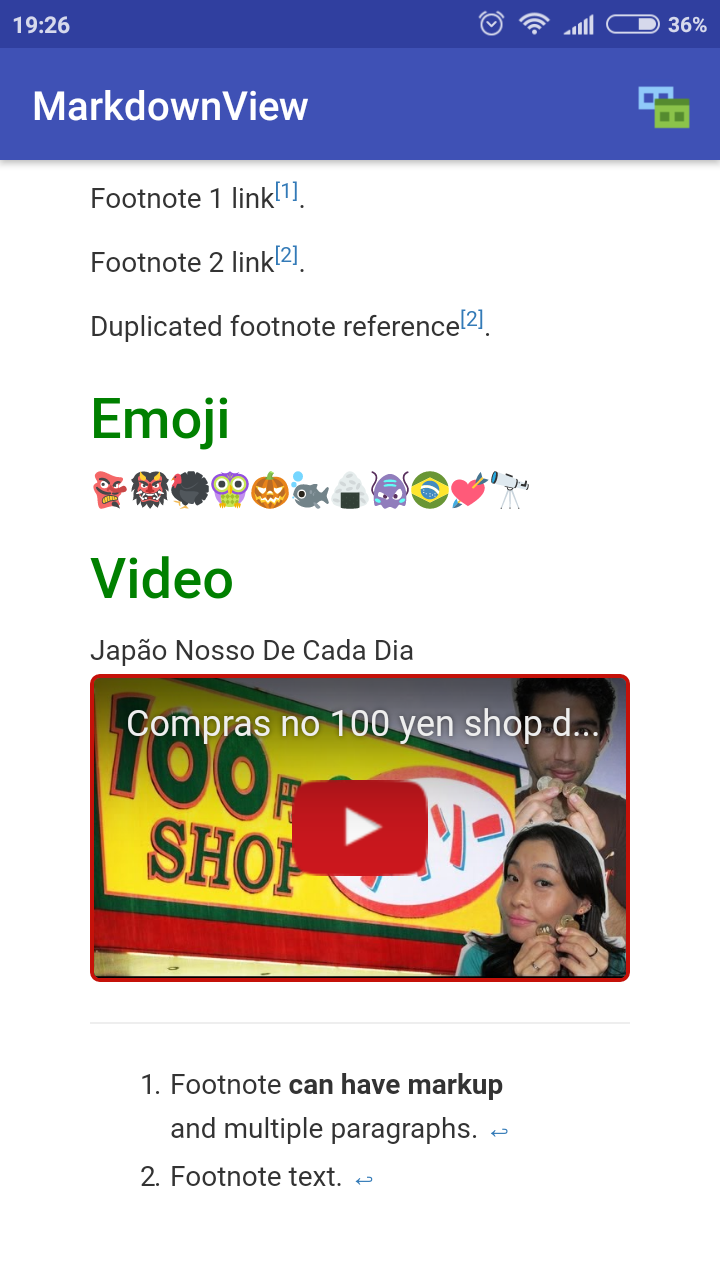
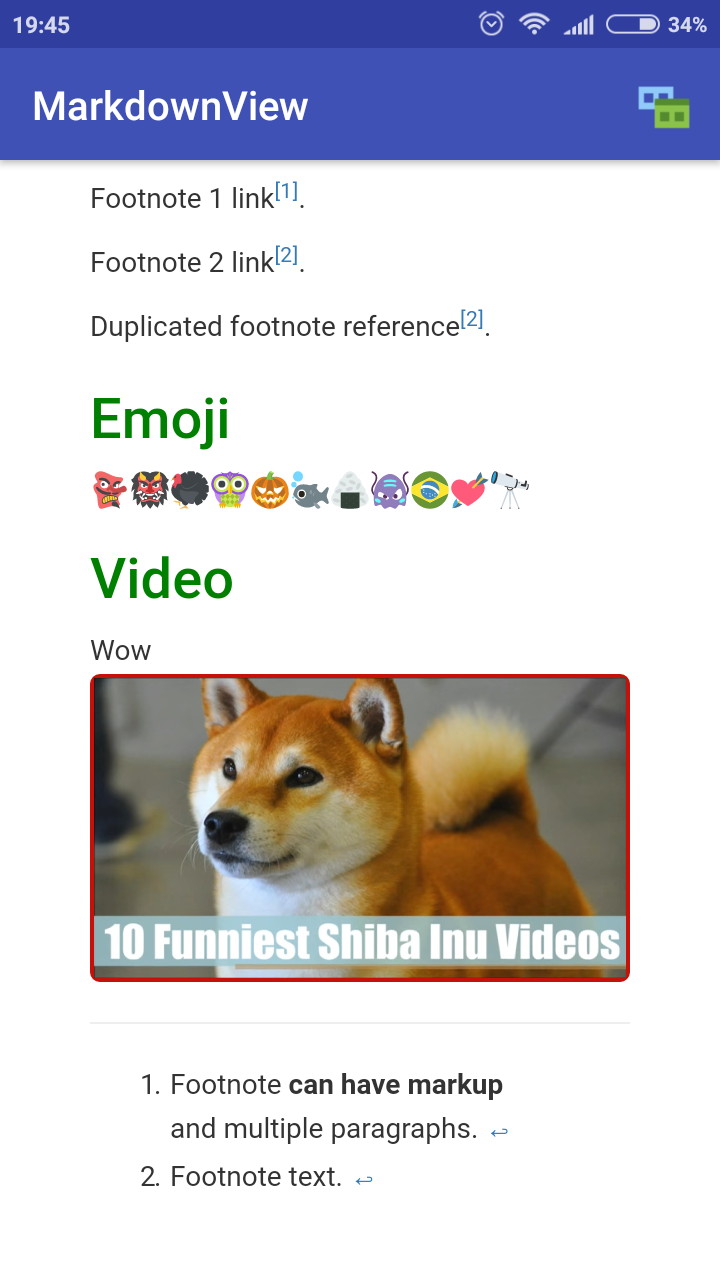
Atualizado o exemplo

Changed region(s): [[0.1222, 0.5, 0.8861, 0.7812], [0.9472, 0.0, 0.9778, 0.0312], [0.0611, 0.0, 0.0917, 0.0312]]

diff --git a/app/src/main/assets/markdown1.md b/app/src/main/assets/markdown1.md
@@ -173,5 +173,5 @@ Duplicated footnote reference[^second].
 
 # Video
 
-Japão Nosso De Cada Dia
-@[youtube](fM-J08X6l_Q)
+Wow
+@[youtube](g2ag8t7AvX8)
